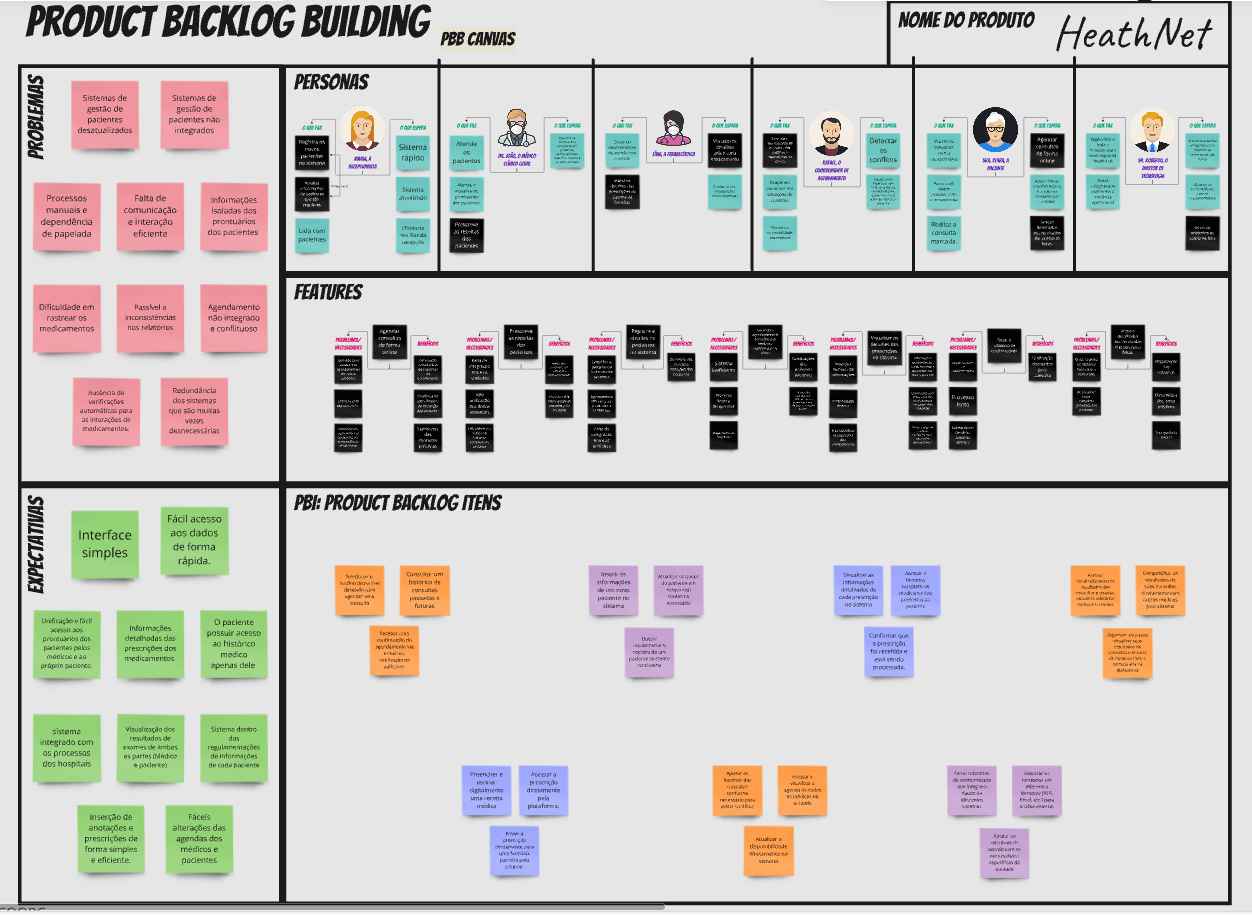
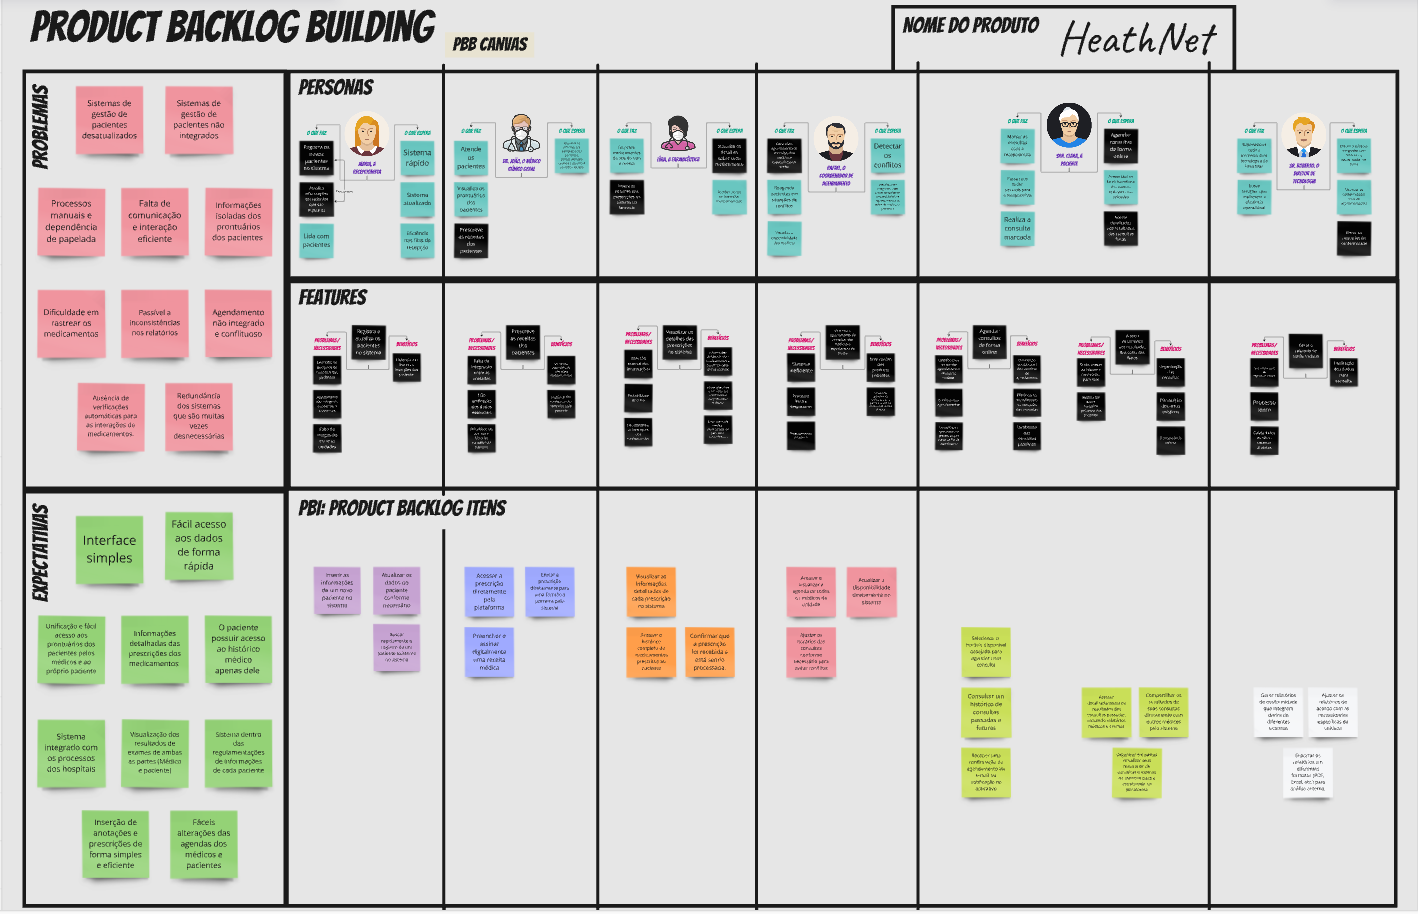
ajustes

diff --git a/site/missoes/missao4/index.html b/site/missoes/missao4/index.html
@@ -1229,10 +1229,10 @@
 
 <h1 id="missao-4">Missão 4</h1>
 <h2 id="apresentacao-unidade-4">Apresentação Unidade 4</h2>
-<iframe width="560" height="315" src=" " frameborder="0" allowfullscreen></iframe>
+<iframe width="560" height="315" src="https://www.youtube.com/watch?v=39NN1vQ-8ys" frameborder="0" allowfullscreen></iframe>
 
 <h2 id="validacao-do-cliente">Validação do cliente</h2>
-<iframe width="560" height="315" src=" " frameborder="0" allowfullscreen></iframe>
+<iframe width="560" height="315" src="https://www.youtube.com/watch?v=adx1DSKRzZM" frameborder="0" allowfullscreen></iframe>
 
 <h2 id="pbb-heathnet">PBB - HeathNet</h2>
 <p><a href="../missao3/#product-backlog-building">Acesse aqui</a></p>
